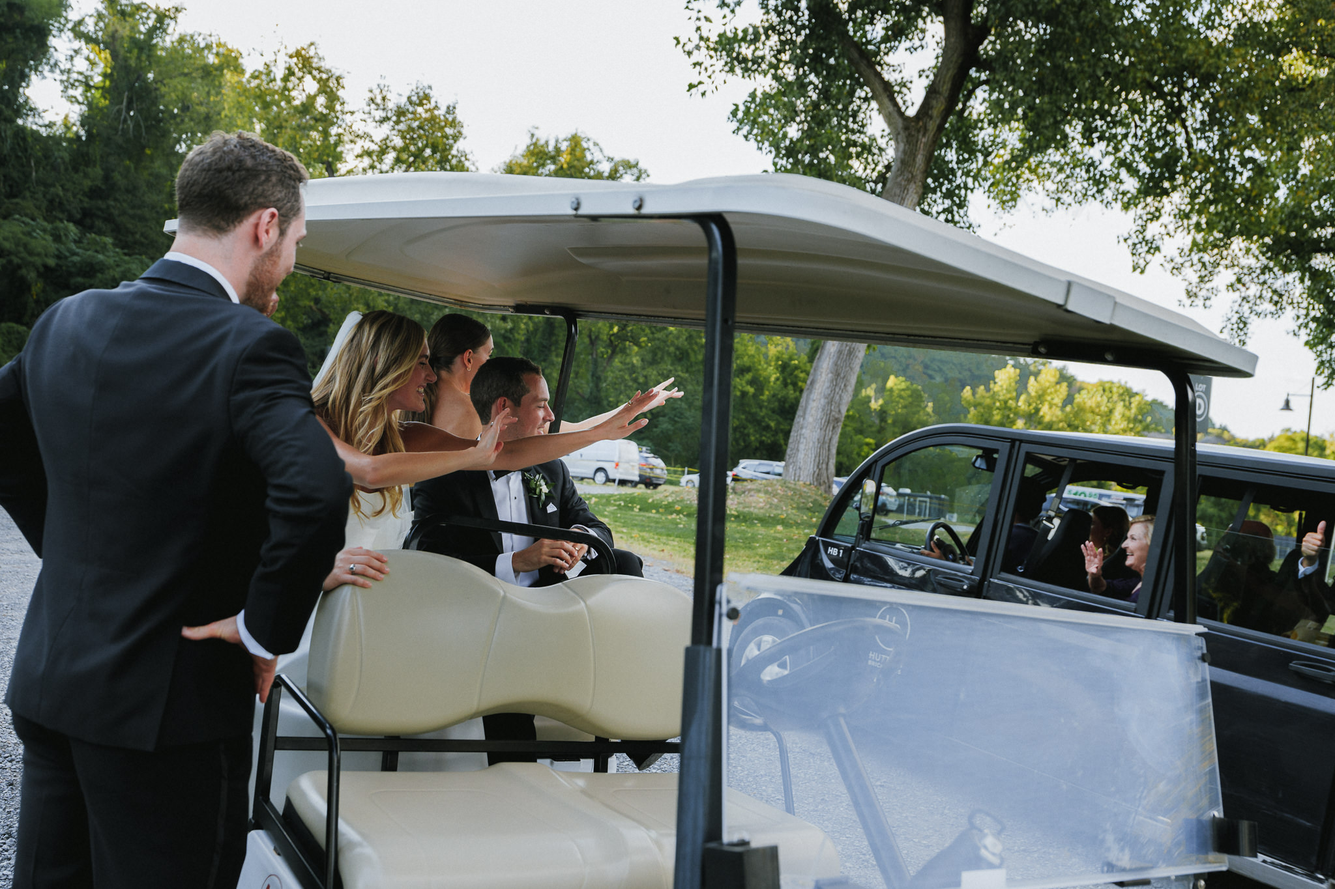
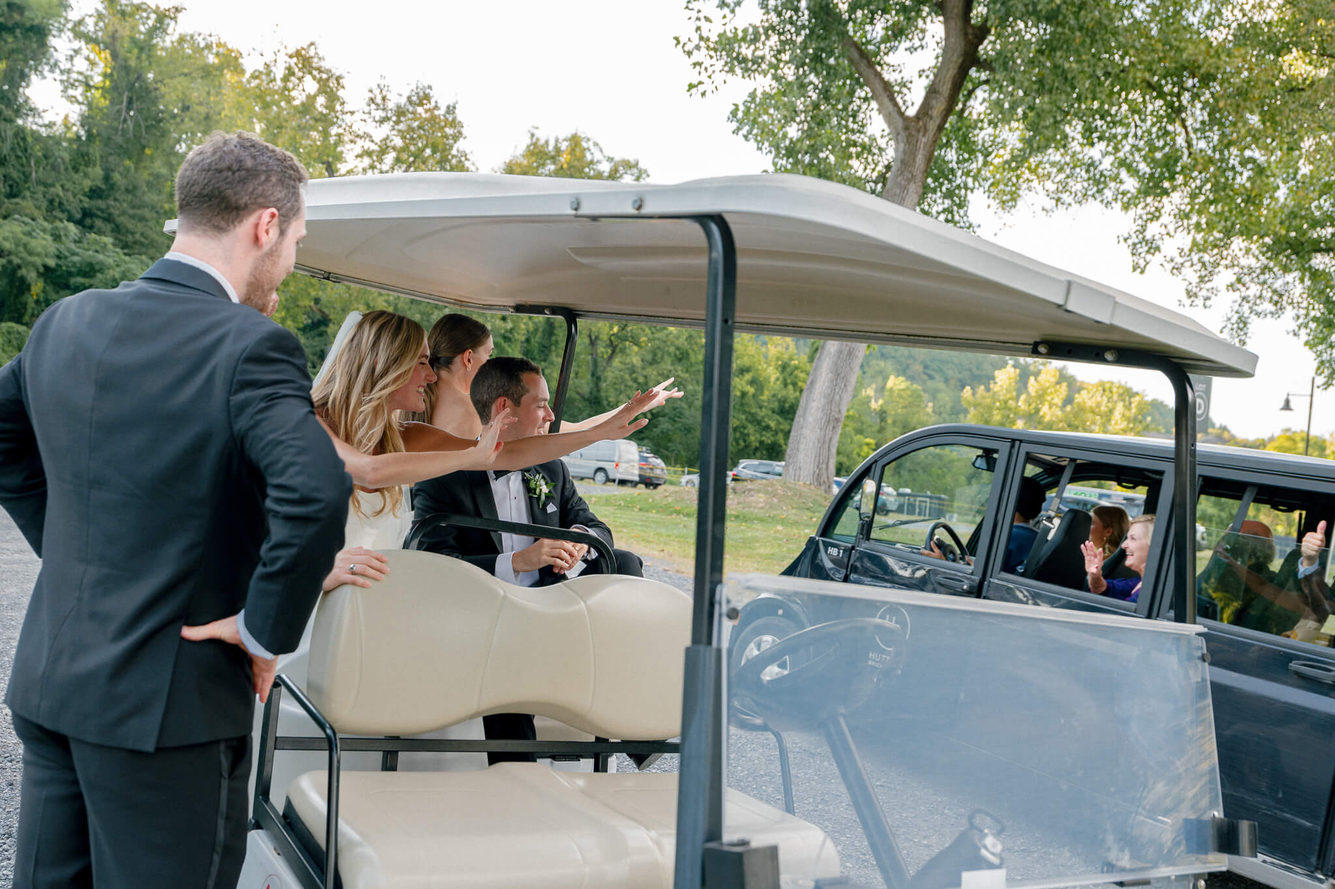
sa xz

diff --git a/index.html b/index.html
@@ -191,7 +191,7 @@
 
 <div class="category-bottom">
   <div class="cat-slide-img-botmidleft">
-    <img src="/img/Weddings/wed20.jpg" alt="">
+    <img src="/img/Weddings/wed20-001.jpg" alt="">
   </div>
 
   <div class="cat-slide-img-botmidmid">
